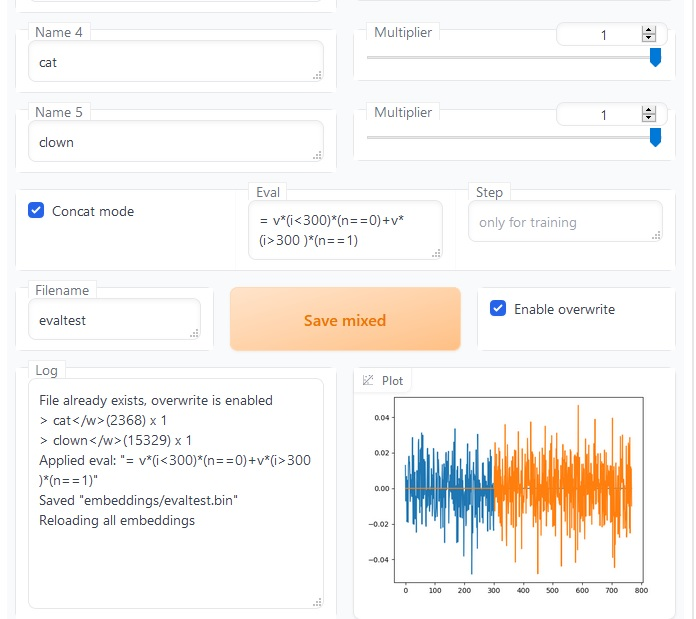
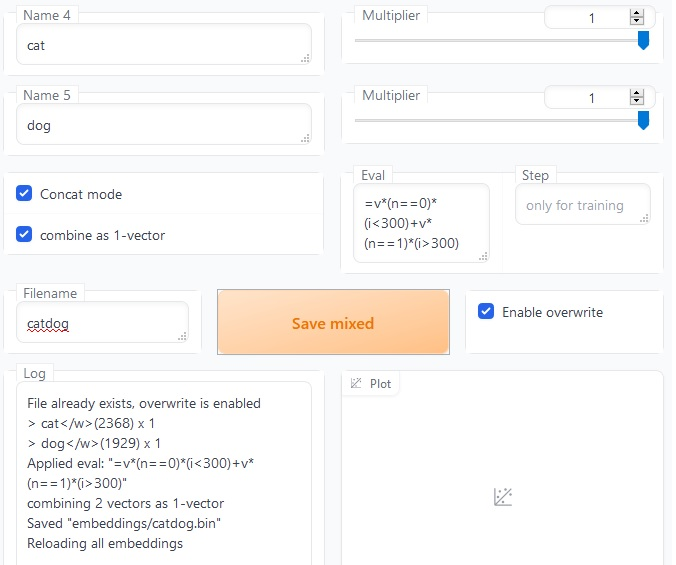
v2.532

diff --git a/README.md b/README.md
@@ -1,4 +1,4 @@
-# Embedding-inspector extension version 2.531 - 2022.12.17
+# Embedding-inspector extension version 2.532 - 2022.12.21
 
 for ![AUTOMATIC1111/stable-diffusion-webui](https://github.com/AUTOMATIC1111/stable-diffusion-webui/wiki/Extensions)
 
@@ -23,6 +23,15 @@ v2.5 Added a mini tokenizer. You can select "Send IDs to mixer" option to automa
 v2.52 Added an experimental eval feature. Text entered in Eval box will be evaluated and applied to the saved embedding. Not exactly useful, but see bottom of this page for usage.
 
 v2.53 Added graph for saved embedding. (temporarily disabled in v2.531)
+
+v2.532 Added  magnitude, min, max to displayed embedding info. Not much use but most internal embeddings seem to have around 0.3-0.4 magnitude.
+
+Added "combine as 1-vector" option. This option sums the final vectors into one vector, makes sense when used with eval feature. For example, to extract one of the vectors of a multi-vector embedding, you can use "=v*(n==2)" which zeroes all vectors but vector#2
+
+Another case is to combine different parts of two embeddings as one, for which you can use an eval string like "=v*(n==0)*(i<300)+v*(n==1)*(i>=300)"
+
+![image](screenshot8.jpg)
+![image](00007-563623717-catdog.jpeg)
 
 # Manual Installation
 
@@ -72,7 +81,7 @@ Eval "torch.abs(v)" makes all values positive.
 
 Eval " = torch.ceil(v)" rounds all values
 
-If the Eval string starts with "=", evaluation will be done item-wise. Here available variables are : v=original value, i=item no (0:768 or 0:1024), maxi=item count (768 or 1024), n=vector no, maxn=vector count
+If the Eval string starts with "=", evaluation will be done item-wise. Here available variables are : v=original value, i=item no (0:768 or 0:1024), maxi=item count (768 or 1024), n=vector no, maxn=vector count. Also, original values can be accessed as tot_vec[n,i]
 
 Eval " = v * (i<100)" zeroes items after 100th
 
